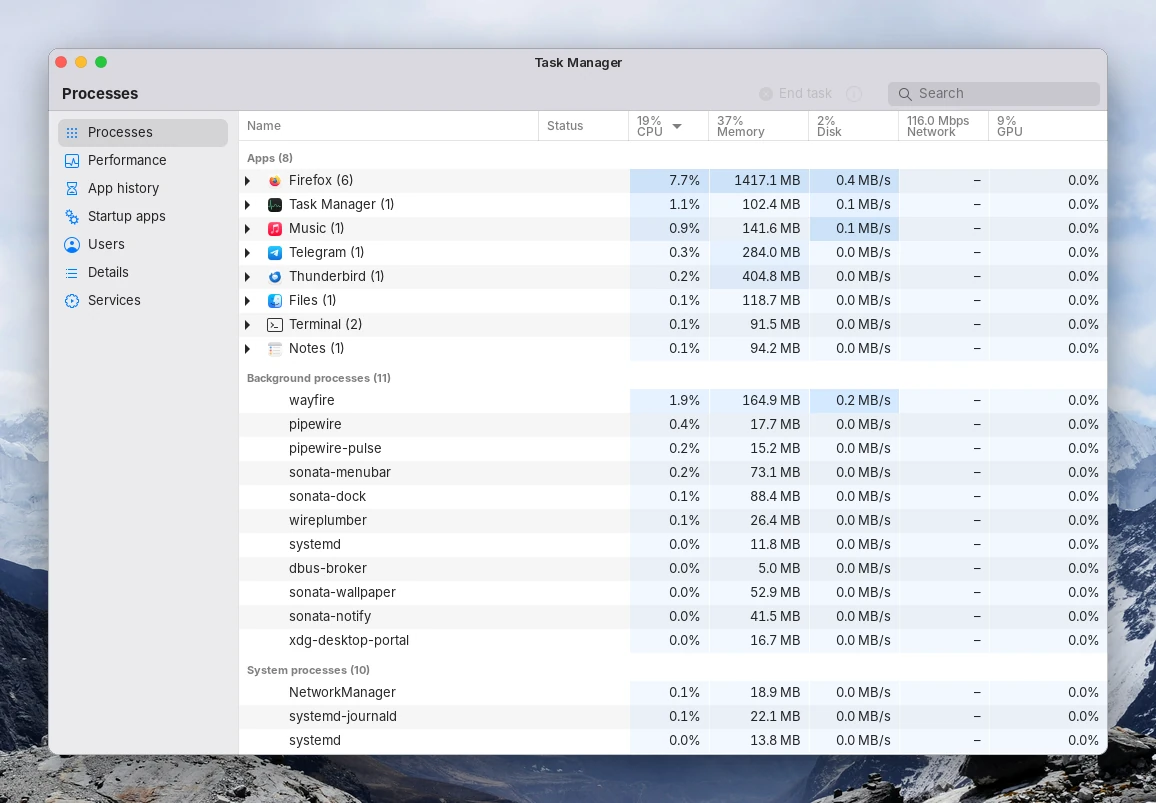
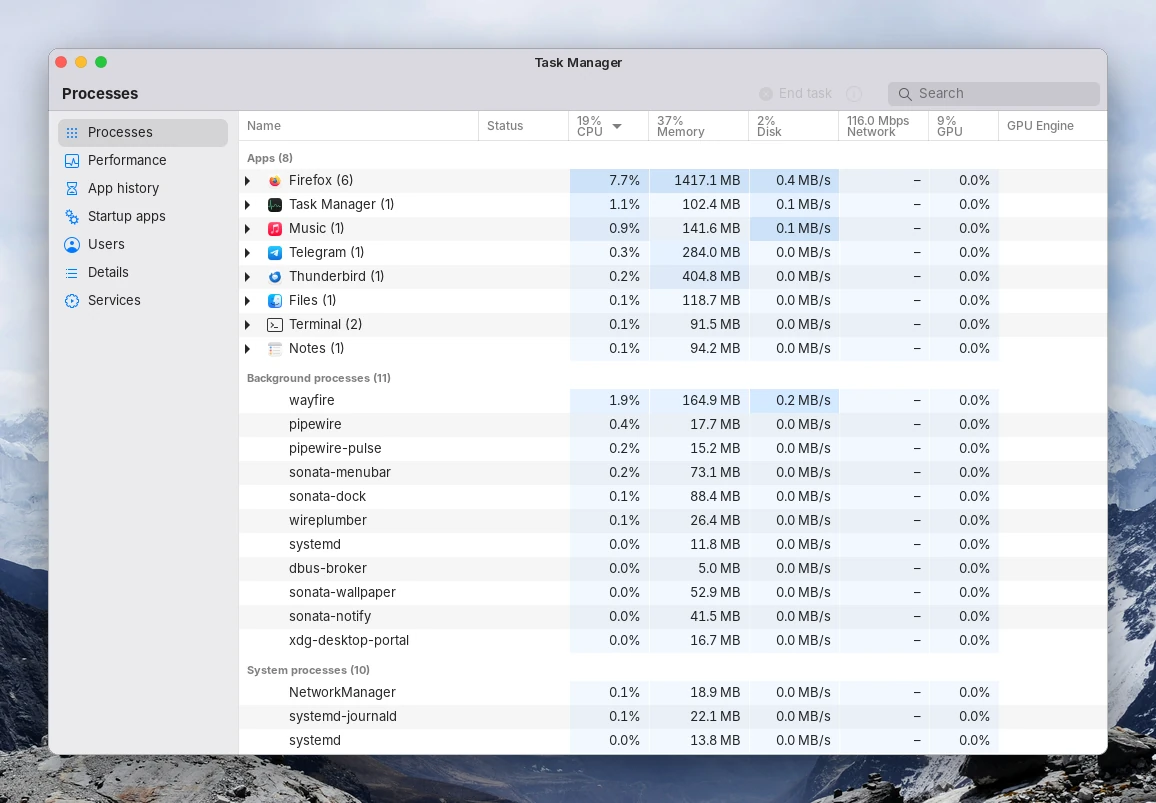
Task Manager: a GPU Engine column -- which graphics card each process uses
From the driver in each open GPU file's fdinfo (AMD, Intel, NVIDIA via
nvidia-drm), NVIDIA's own device files and nvidia-smi's process list; an
app shows the cards of all its processes (Vini: see what runs on which
card with Everyday Apps on the Integrated Graphics).

Claude-Session: https://claude.ai/code/session_013JHgujc28JdHH6TW3AtgCP

diff --git a/sonata2/activity/procfs.py b/sonata2/activity/procfs.py
@@ -275,6 +275,7 @@ class Proc:
     state: str = "S"
     gpu: float = 0.0              # % of its busiest GPU engine since the previous sample
     steam: str = ""               # the Steam game it belongs to (SteamAppId), "" for others
+    gpu_on: str = ""              # the graphics card(s) it uses: "NVIDIA", "AMD", "AMD, NVIDIA"; "" none
 
     @property
     def status(self) -> str:
@@ -304,7 +305,9 @@ class Snapshot:
 # engine was busy for it. NVIDIA's own driver doesn't fill that in: its
 # numbers come from `nvidia-smi pmon` (NvidiaUsage), only while the card is
 # awake anyway -- asking would wake a sleeping laptop GPU.
-FD_RESCAN_S = 5.0                 # which fds of a process are GPU files: looked up again this often
+FD_RESCAN_S = 5.0
+CARD_NAMES = {"amdgpu": "AMD", "radeon": "AMD", "i915": "Intel", "xe": "Intel", "nvidia": "NVIDIA",
+              "nvidia-drm": "NVIDIA", "nouveau": "NVIDIA"}      # driver -> the card's maker (Task Manager)                 # which fds of a process are GPU files: looked up again this often
 
 
 def parse_drm_fdinfo(text: str) -> Optional[tuple]:
@@ -399,6 +402,8 @@ class Sampler:
         self._prev_disk_tot = None
         self._gpu_fds = {}                 # (pid, start) -> [fdinfo paths of its /dev/dri files]
         self._gpu_scan = {}                # (pid, start) -> when its fds were last looked at
+        self._gpu_cards = {}               # (pid, start) -> {card names} its open GPU files belong to
+        self._pdev_names = {}              # PCI address -> "AMD" / "NVIDIA" / "Intel"
         self._prev_gpu = {}                # DRM client -> {engine: busy ns}
         self.nvidia = NvidiaUsage(sys)
         self.boot_time = self._boot_time()
@@ -472,25 +477,46 @@ class Sampler:
                 fds = os.listdir(os.path.join(d, "fd"))
             except OSError:
                 fds = []                                   # another user's process
+            cards = set()
             for fd in fds:
                 try:
-                    if os.readlink(os.path.join(d, "fd", fd)).startswith("/dev/dri/"):
-                        paths.append(os.path.join(d, "fdinfo", fd))
+                    target = os.readlink(os.path.join(d, "fd", fd))
                 except OSError:
-                    pass
-            self._gpu_fds[key], self._gpu_scan[key] = paths, now
+                    continue
+                if target.startswith("/dev/dri/"):
+                    paths.append(os.path.join(d, "fdinfo", fd))
+                elif target.startswith("/dev/nvidia") and target[11:].isdigit():   # NVIDIA's own driver
+                    cards.add("NVIDIA")
+            self._gpu_fds[key], self._gpu_scan[key], self._gpu_cards[key] = paths, now, cards
         return self._gpu_fds.get(key, [])
+
+    def _card_name(self, pdev: str) -> str:
+        """A GPU's maker from its PCI address (the driver bound to it)."""
+        if pdev not in self._pdev_names:
+            link = os.path.join(self.sys, "bus/pci/devices", pdev, "driver")
+            drv = os.path.basename(os.path.realpath(link)) if pdev and os.path.exists(link) else ""
+            self._pdev_names[pdev] = CARD_NAMES.get(drv, drv)
+        return self._pdev_names[pdev]
 
     def gpu_usage(self, procs: Dict[int, "Proc"], dt: float, now: float) -> None:
         """Fills each process's .gpu (see the GPU section above)."""
         clients, owner = {}, {}
         for p in procs.values():
             key = (p.pid, p.start_ticks)
+            cards = set(self._gpu_cards.get(key, ()))
             for path in self._drm_fdinfos(key, os.path.join(self.proc, str(p.pid)), now):
-                parsed = parse_drm_fdinfo(_read(path))
+                text = _read(path)
+                parsed = parse_drm_fdinfo(text)
+                drv = next((ln.split(":", 1)[1].strip() for ln in text.splitlines() if ln.startswith("drm-driver:")),
+                           "")
+                if drv:
+                    cards.add(CARD_NAMES.get(drv, drv))
+                elif parsed and parsed[0][0]:
+                    cards.add(self._card_name(parsed[0][0]))
                 if parsed and parsed[0] not in clients:    # dup'ed fds share one client
                     clients[parsed[0]] = parsed[1]
                     owner[parsed[0]] = p
+            p.gpu_on = ", ".join(sorted(cards - {""}))
         for client, engines in clients.items():
             prev = self._prev_gpu.get(client)
             if prev is None or dt <= 0:
@@ -502,10 +528,13 @@ class Sampler:
         live = {(p.pid, p.start_ticks) for p in procs.values()}
         self._gpu_fds = {k: v for k, v in self._gpu_fds.items() if k in live}
         self._gpu_scan = {k: v for k, v in self._gpu_scan.items() if k in live}
+        self._gpu_cards = {k: v for k, v in self._gpu_cards.items() if k in live}
         self.nvidia.refresh()
         for pid, pct in self.nvidia.pids.items():
             if pid in procs:
                 procs[pid].gpu = max(procs[pid].gpu, pct)
+                if "NVIDIA" not in procs[pid].gpu_on:
+                    procs[pid].gpu_on = ", ".join(sorted(set(filter(None, procs[pid].gpu_on.split(", "))) | {"NVIDIA"}))
 
     def _disk_info(self, name: str) -> tuple:
         if name not in self._disk_static:

diff --git a/sonata2/activity/pages.py b/sonata2/activity/pages.py
@@ -40,6 +40,7 @@ class RowBase(GObject.Object):
     disk = GObject.Property(type=float, default=0.0)         # bytes/s
     net = GObject.Property(type=float, default=-1.0)        # bytes/s; -1: not measured per process
     gpu = GObject.Property(type=float, default=0.0)         # % of its busiest GPU engine
+    gpu_on = GObject.Property(type=str, default="")         # which graphics card(s): "NVIDIA", "AMD"...
     group = GObject.Property(type=int, default=0)
     icon = None
 
@@ -47,6 +48,7 @@ class RowBase(GObject.Object):
         super().__init__(**kw)
         self.sv = {k: v for k, v in kw.items()}
         self.sv.setdefault("name", "")
+        self.sv.setdefault("gpu_on", "")
 
     def set_values(self, vals: dict) -> None:
         sv = self.sv
@@ -80,7 +82,8 @@ class ProcessRow(RowBase):
         self.ppid = p.ppid
         self.set_values({"cpu": round(p.cpu, 1), "cpu_time": round(p.cpu_time, 2), "threads": p.threads,
                          "mem": p.rss, "read_bytes": p.read_bytes, "write_bytes": p.write_bytes,
-                         "disk": round(p.read_ps + p.write_ps), "gpu": round(p.gpu, 1), "status": p.status})
+                         "disk": round(p.read_ps + p.write_ps), "gpu": round(p.gpu, 1), "status": p.status,
+                         "gpu_on": getattr(p, "gpu_on", "")})
 
 
 class AppNode(RowBase):
@@ -323,7 +326,7 @@ class ProcessesPage(Page):
         hf.connect("unbind", lambda _f, h: self.headers.pop(h.get_child(), None))
         self.view.set_header_factory(hf)
         dummy = lambda: Gtk.CustomSorter.new(lambda *_a: 0)      # noqa: E731  (headers clickable; _compare sorts)
-        self.cols = {"name": name_column(self.view, "Name", 300, tree=True, sorter=dummy())}
+        self.cols = {"name": name_column(self.view, "Name", 240, tree=True, sorter=dummy())}
         self.cols["status"] = text_column(self.view, "Status", "status", None, 90, numeric=False, sorter=dummy(),
                                           dim=True)
         self.cols["cpu"] = text_column(self.view, "CPU", "cpu", fmt_cpu, 80, heat=heat_cpu, sorter=dummy())
@@ -331,6 +334,9 @@ class ProcessesPage(Page):
         self.cols["disk"] = text_column(self.view, "Disk", "disk", fmt_disk, 90, heat=heat_disk, sorter=dummy())
         self.cols["net"] = text_column(self.view, "Network", "net", fmt_net, 90, heat=heat_net, sorter=dummy())
         self.cols["gpu"] = text_column(self.view, "GPU", "gpu", fmt_gpu, 70, heat=heat_gpu, sorter=dummy())
+        # which card draws it (Vini): two-GPU laptops, the integrated card for everyday apps
+        self.cols["gpu_on"] = text_column(self.view, "GPU Engine", "gpu_on", None, 96, numeric=False,
+                                          sorter=dummy(), dim=True)
         for cid, c in self.cols.items():
             c.cid = cid
         self._order = ("cpu", True)
@@ -427,6 +433,8 @@ class ProcessesPage(Page):
                              "mem": sum(m.sv["mem"] for m in node.members),
                              "disk": sum(m.sv["disk"] for m in node.members),
                              "gpu": round(min(100.0, sum(m.sv.get("gpu", 0) for m in node.members)), 1),
+                             "gpu_on": ", ".join(sorted({c for m in node.members
+                                                         for c in m.sv.get("gpu_on", "").split(", ") if c})),
                              "status": next((m.sv["status"] for m in node.members if m.sv["status"]), "")})
             wanted.append(node)
         for key in [k for k in self.nodes if k not in win.groups[0]]:

diff --git a/tests/test_activity.py b/tests/test_activity.py
@@ -302,13 +302,16 @@ class GpuColumnTest(unittest.TestCase):
         smp = Sampler.__new__(Sampler)
         smp.proc, smp.sys = proc, os.path.join(root, "sys")
         smp._gpu_fds, smp._gpu_scan, smp._prev_gpu = {}, {}, {}
+        smp._gpu_cards, smp._pdev_names = {}, {}
         smp.nvidia = procfs.NvidiaUsage(smp.sys)
         mk = lambda: {300: procfs.Proc(pid=300, name="game", comm="game", cmdline="", exe="game", uid=0,  # noqa: E731
                                        user="", ppid=1, threads=1, rss=0, ticks=0, start_ticks=5)}
         for fd in ("7", "8"):
             with open(os.path.join(info, fd), "w") as f:
                 f.write(self.FDINFO.format(gfx=1_000_000_000))
-        smp.gpu_usage(mk(), 0.0, 0.0)                                       # first sample: no rate yet
+        first = mk()
+        smp.gpu_usage(first, 0.0, 0.0)                                       # first sample: no rate yet
+        self.assertEqual(first[300].gpu_on, "AMD")         # which card (Vini): from the fdinfo's driver
         for fd in ("7", "8"):
             with open(os.path.join(info, fd), "w") as f:
                 f.write(self.FDINFO.format(gfx=1_400_000_000))
